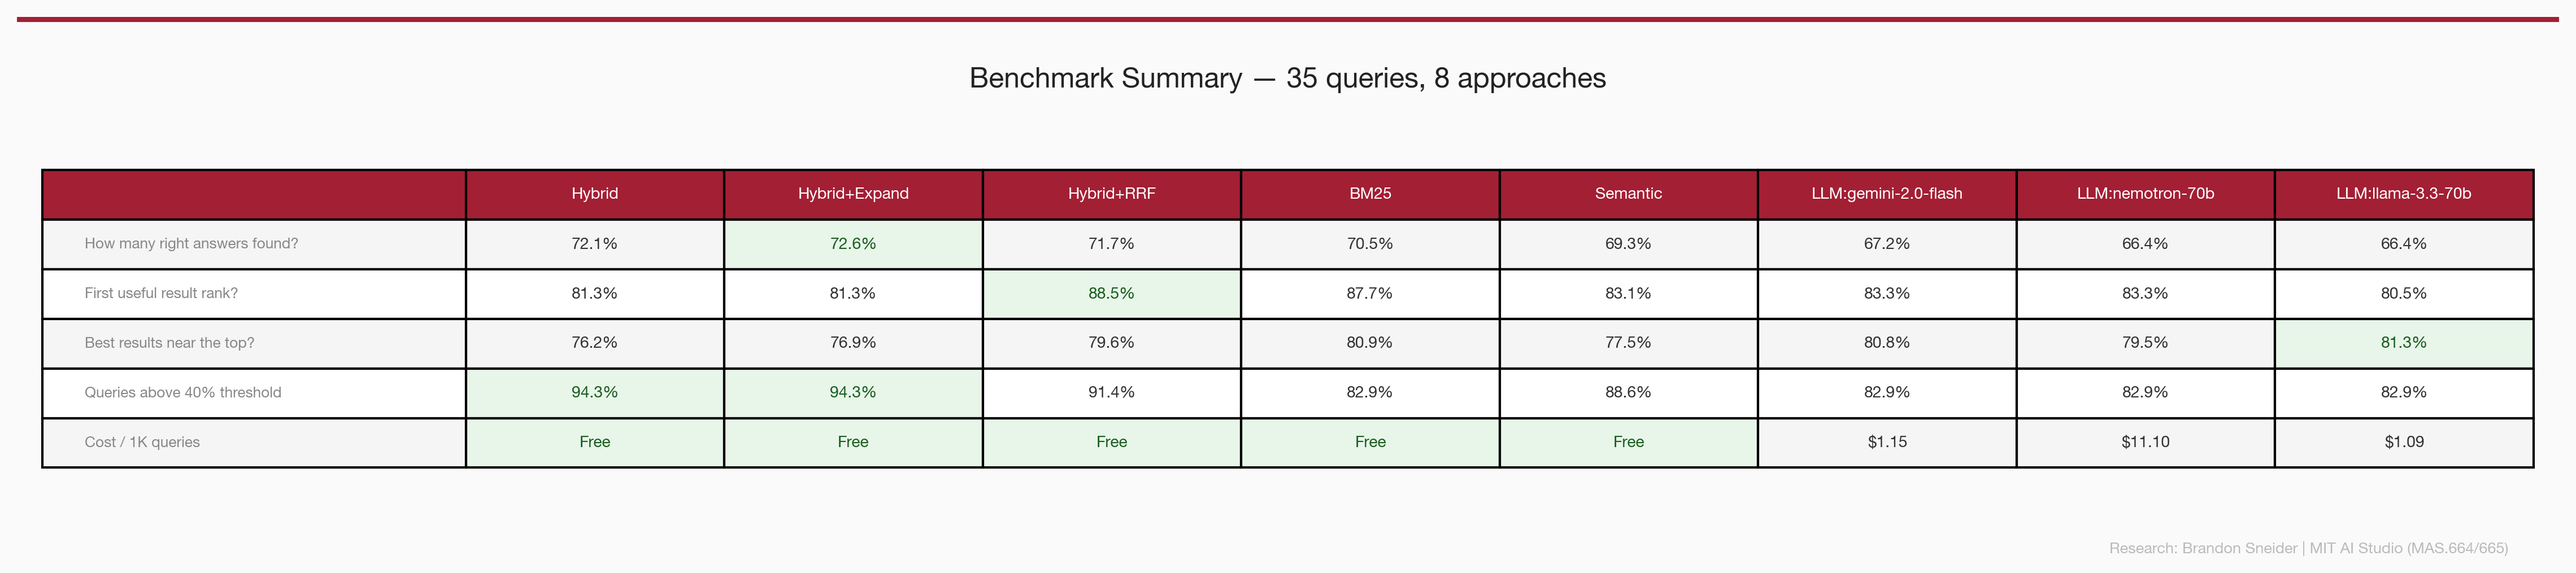
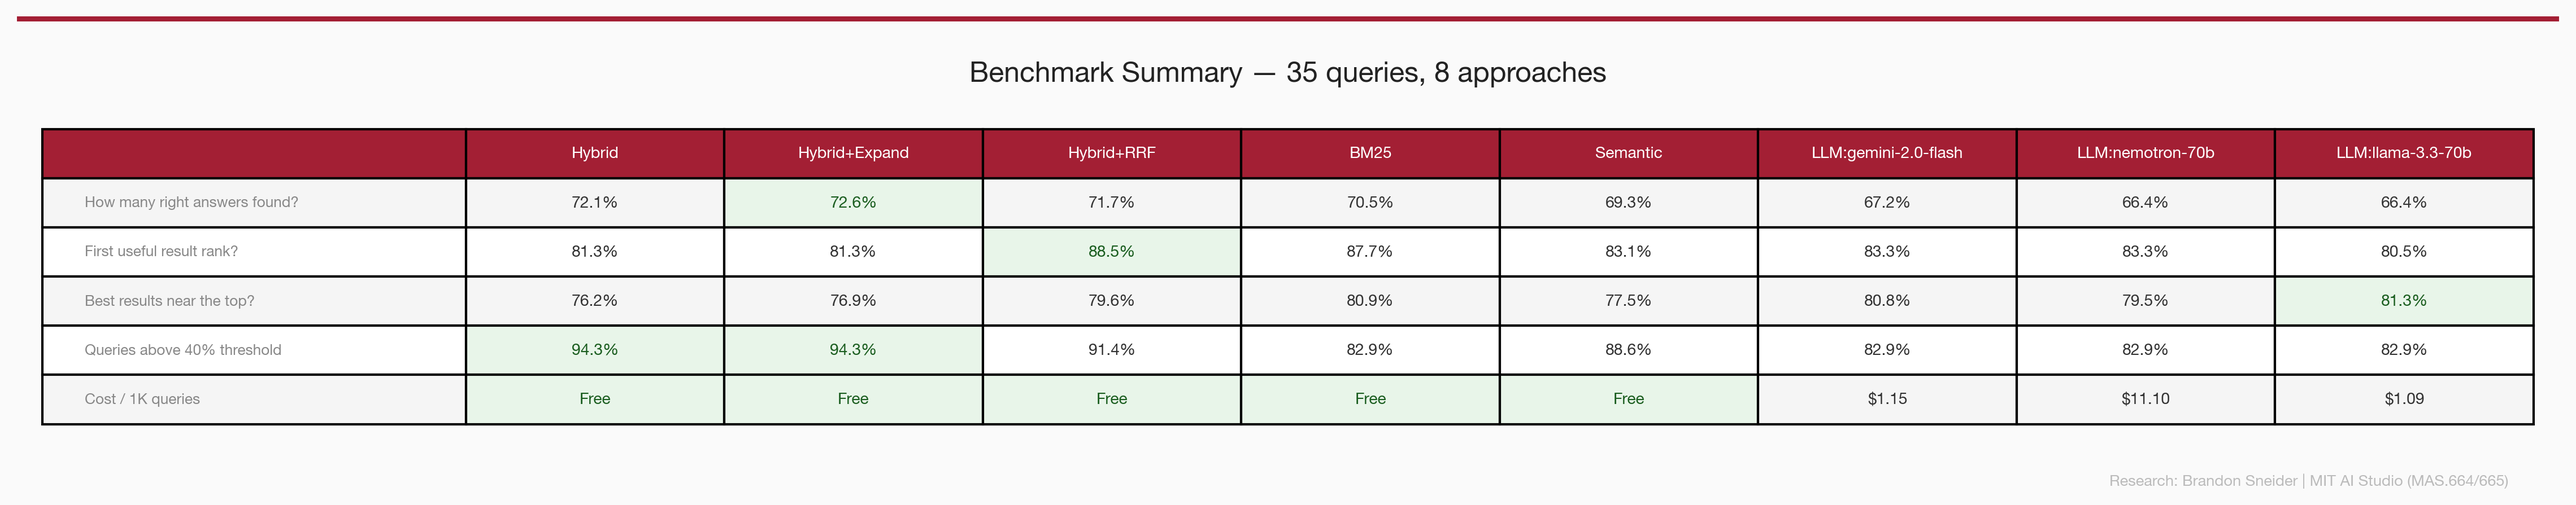
Fix chart overlaps: jitter markers, legend below plot, tighter labels
Chart 1: cost labels tight against percentages, dynamic right margin
Chart 2: LLM label moved to left side, endpoint labels repositioned
Chart 4: vertical jitter for overlapping dots, legend moved below chart,
  descriptions restored, taller figure for breathing room

diff --git a/scripts/generate_charts.py b/scripts/generate_charts.py
@@ -111,20 +111,21 @@ def chart_quality_vs_cost(data, output_dir):
     for bar, recall, cost in zip(bars, recalls, costs):
         mid = bar.get_y() + bar.get_height() / 2
         w = "bold" if recall == best else "normal"
-        # Recall value
-        ax.text(recall + 0.002, mid, f"{recall:.1%}", va="center",
-                fontsize=9, fontweight=w, color="#333")
-        # Cost badge right-aligned inside plot area
+        # "72.6% Free" or "67.2% $1.15/1K" — all inline right after bar
         cstr = "Free" if cost == 0 else f"${cost:.2f}/1K"
         cc = "#27AE60" if cost == 0 else "#C0392B"
-        ax.text(best + 0.035, mid, cstr, va="center", ha="right",
-                fontsize=8, fontweight="bold", color=cc)
+        ax.text(recall + 0.003, mid, f"{recall:.1%}", va="center",
+                fontsize=9, fontweight=w, color="#333")
+        ax.text(recall + 0.032, mid, cstr, va="center",
+                fontsize=7.5, fontweight="bold", color=cc)
 
     ax.set_yticks(y)
     ax.set_yticklabels(ranked, fontsize=9.5, fontweight="bold")
     ax.set_xlabel("Recall@K", fontsize=10, color="#666")
     ax.xaxis.set_major_formatter(plt.FuncFormatter(lambda v, _: f"{v:.0%}"))
-    ax.set_xlim(0.62, best + 0.04)
+    # Tight right margin: just enough for the longest cost label
+    max_cost_len = max(len(f"${c:.2f}/1K") if c > 0 else len("Free") for c in costs)
+    ax.set_xlim(0.62, best + 0.045 + max_cost_len * 0.003)
     ax.set_title("Retrieval Quality vs. Cost", fontsize=13, fontweight="bold",
                  pad=14, color="#222")
 
@@ -170,24 +171,26 @@ def chart_hybrid_mix(data, output_dir):
         lo, hi = min(lr), max(lr)
         ax.axhspan(lo - 0.001, hi + 0.001, alpha=0.07, color=C_LLM, zorder=1)
         ax.axhline(np.mean(lr), color=C_LLM, ls="--", lw=1.2, alpha=0.5, zorder=2)
-        ax.text(0.5, hi + 0.005,
-                f"LLM Rerankers ({lo:.1%}–{hi:.1%}, $1–$11/1K)",
+        # LLM label above the band, left-aligned to avoid right-side clutter
+        ax.text(0.02, hi + 0.006,
+                f"LLM Rerankers ({lo:.1%}\u2013{hi:.1%}, $1\u2013$11/1K)",
                 fontsize=7.5, color=C_LLM, va="bottom", fontweight="bold")
 
-    # Endpoint labels inside the axes
-    ax.text(0.01, y[0] + 0.008, "Pure BM25", fontsize=7.5,
-            color=C_BM25, fontweight="bold", va="bottom")
-    ax.text(0.99, y[-1] + 0.008, "Pure Semantic", fontsize=7.5,
+    # Endpoint labels — "Pure BM25" below first point, "Pure Semantic" above last
+    # Offset them vertically to avoid colliding with the LLM band
+    ax.text(0.01, y[0] - 0.012, "Pure BM25", fontsize=7.5,
+            color=C_BM25, fontweight="bold", va="top")
+    # Last point (pure semantic) is near the LLM band — put label above
+    ax.text(0.99, y[-1] + 0.012, "Pure Semantic", fontsize=7.5,
             color=C_SEM, fontweight="bold", va="bottom", ha="right")
 
-    ax.set_xlabel("Semantic Weight  (BM25 = 1 − semantic)", fontsize=10, color="#666")
+    ax.set_xlabel("Semantic Weight  (BM25 = 1 \u2212 semantic)", fontsize=10, color="#666")
     ax.set_ylabel("Recall@K", fontsize=10, color="#666")
     ax.set_title("Hybrid Search: Finding the Optimal Mix",
                  fontsize=13, fontweight="bold", pad=14, color="#222")
     ax.yaxis.set_major_formatter(plt.FuncFormatter(lambda v, _: f"{v:.0%}"))
     ax.set_xlim(-0.03, 1.03)
-    # Tighter y range — cut the dead space below
-    ax.set_ylim(min(y) - 0.02, max(y) + 0.045)
+    ax.set_ylim(min(y) - 0.025, max(y) + 0.045)
 
     fig.tight_layout(rect=[0, 0.02, 1, 0.975])
     _brand(fig)
@@ -238,10 +241,10 @@ def chart_summary_table(data, output_dir):
     rcolors.append(cc)
 
     fw = max(10, 3 + na * 1.5)
-    fig, ax = plt.subplots(figsize=(fw, 3.2))
+    fig, ax = plt.subplots(figsize=(fw, 2.8))
     ax.axis("off")
-    ax.set_title(f"Benchmark Summary — {data['n_queries']} queries, {na} approaches",
-                 fontsize=12, fontweight="bold", pad=12, color="#222")
+    ax.set_title(f"Benchmark Summary \u2014 {data['n_queries']} queries, {na} approaches",
+                 fontsize=12, fontweight="bold", pad=8, color="#222")
 
     tbl = ax.table(cellText=rows, colLabels=cols, cellColours=rcolors,
                    loc="center", cellLoc="center")
@@ -277,7 +280,7 @@ def chart_summary_table(data, output_dir):
         if c == 0:
             tbl[len(metrics) + 1, j + 1].set_text_props(fontweight="bold", color="#1b5e20")
 
-    fig.tight_layout(rect=[0, 0.02, 1, 0.955])
+    fig.tight_layout(rect=[0, 0.025, 1, 0.96])
     _brand(fig)
     p = output_dir / "chart3_summary_table.png"
     fig.savefig(p, dpi=DPI, bbox_inches="tight", facecolor=BG)
@@ -293,7 +296,7 @@ def chart_approach_strengths(data, output_dir):
     per_level = data["per_level"]
     approaches = data["approaches"]
 
-    # Query types with descriptions explaining what each tests
+    # Query types with descriptions
     query_types = [
         ("Keyword Lookup",          "Exact terms and specific phrases",          ["L1", "L3"]),
         ("Semantic Understanding",  "Meaning-based queries, no exact match",     ["L2", "L4"]),
@@ -309,6 +312,7 @@ def chart_approach_strengths(data, output_dir):
         "Semantic":   (["Semantic"], C_SEM, "D"),
         "LLM Rerank": ([a for a in approaches if a.startswith("LLM:")], C_LLM, "^"),
     }
+    family_names = list(families.keys())
 
     scores = {}
     for label, _desc, levels in query_types:
@@ -331,36 +335,72 @@ def chart_approach_strengths(data, output_dir):
     descs = {t[0]: t[1] for t in query_types}
     n = len(labels)
 
-    fig, ax = plt.subplots(figsize=(8, 5.8))
-    yp = np.arange(n)
+    # Spacing: 1.5 units between rows for description text
+    fig, ax = plt.subplots(figsize=(9, 6.5))
+    yp = np.arange(n) * 1.5
 
-    # Range lines
+    # Range lines (behind dots)
     for i, lb in enumerate(labels):
         sv = list(scores[lb].values())
-        ax.plot([min(sv), max(sv)], [i, i],
+        ax.plot([min(sv), max(sv)], [yp[i], yp[i]],
                 color="#e0e0e0", lw=3, zorder=1, solid_capstyle="round")
 
-    # Dots
-    for fn, (_, color, marker) in families.items():
-        xv = [scores[lb][fn] for lb in labels]
-        ax.scatter(xv, yp, s=130, c=color, marker=marker, label=fn,
-                   zorder=5, edgecolors="white", linewidth=1.5, alpha=0.9)
-        # Label the winner in each row
-        for i, (x, lb) in enumerate(zip(xv, labels)):
-            if x == max(scores[lb].values()):
-                ax.annotate(f"{x:.0%}", (x, i), fontsize=7.5,
+    # For each row, compute jitter offsets to prevent marker overlap
+    jitter_threshold = 0.025
+    offsets = [0.18, -0.18, 0.35, -0.35]  # alternating up/down nudges
+
+    for row_i, lb in enumerate(labels):
+        row_vals = sorted(
+            [(fn, scores[lb][fn]) for fn in family_names],
+            key=lambda t: t[1]
+        )
+
+        # Assign y-offsets: cluster dots that are within threshold
+        placed = {}  # fn -> (x, y_offset)
+        for fn, xval in row_vals:
+            # Find how many previously placed dots are close
+            close_offsets = [
+                placed[pfn][1] for pfn, px in row_vals
+                if pfn in placed and abs(px - xval) < jitter_threshold
+            ]
+            if not close_offsets:
+                yo = 0.0
+            else:
+                # Pick the first unused offset
+                for candidate in offsets:
+                    if candidate not in close_offsets:
+                        yo = candidate
+                        break
+                else:
+                    yo = offsets[len(close_offsets) % len(offsets)]
+            placed[fn] = (xval, yo)
+
+        # Plot dots — draw in consistent order, largest markers first (lowest zorder)
+        best_val = max(scores[lb].values())
+        for fn in family_names:
+            _, color, marker = families[fn]
+            xval, yo = placed[fn]
+            yval = yp[row_i] + yo
+            ax.scatter([xval], [yval], s=100, c=color, marker=marker,
+                       zorder=6, edgecolors="white", linewidth=1.2, alpha=0.92,
+                       label=fn if row_i == 0 else None)
+
+            # Only label the winner in each row
+            if xval == best_val:
+                ax.annotate(f"{xval:.0%}", (xval, yval), fontsize=7.5,
                             fontweight="bold", color=color,
                             xytext=(0, 10), textcoords="offset points",
                             ha="center", va="bottom")
 
-    # Two-line y-labels: bold name + light description
+    # Y-axis labels
     ax.set_yticks(yp)
-    ax.set_yticklabels(labels, fontsize=9, fontweight="bold")
-    # Add description text below each label
+    ax.set_yticklabels(labels, fontsize=9.5, fontweight="bold")
+    # Description subtitle below each label
     for i, lb in enumerate(labels):
-        ax.annotate(descs[lb], xy=(0, i), xycoords=("axes fraction", "data"),
-                    xytext=(-10, -12), textcoords="offset points",
-                    fontsize=7, color="#999", ha="right", va="top")
+        ax.annotate(descs[lb], xy=(0, yp[i]),
+                    xycoords=("axes fraction", "data"),
+                    xytext=(-10, -14), textcoords="offset points",
+                    fontsize=7, color="#aaa", ha="right", va="top")
 
     ax.xaxis.set_major_formatter(plt.FuncFormatter(lambda v, _: f"{v:.0%}"))
     ax.set_xlabel("Recall@K", fontsize=10, color="#666")
@@ -369,12 +409,13 @@ def chart_approach_strengths(data, output_dir):
     ax.set_xlim(0.28, 1.02)
     ax.invert_yaxis()
 
-    # Legend at top-right, out of the way of data
-    ax.legend(loc="upper right", framealpha=0.95, fontsize=8,
-              ncol=2, columnspacing=1, edgecolor="#ddd",
+    # Legend below the chart, fully outside plot area
+    ax.legend(loc="upper center", bbox_to_anchor=(0.5, -0.07),
+              framealpha=0.95, fontsize=8.5,
+              ncol=4, columnspacing=1.5, edgecolor="#ddd",
               handletextpad=0.4)
 
-    fig.tight_layout(rect=[0, 0.02, 1, 0.975])
+    fig.tight_layout(rect=[0, 0.06, 1, 0.975])
     _brand(fig)
     p = output_dir / "chart4_approach_strengths.png"
     fig.savefig(p, dpi=DPI, bbox_inches="tight", facecolor=BG)
